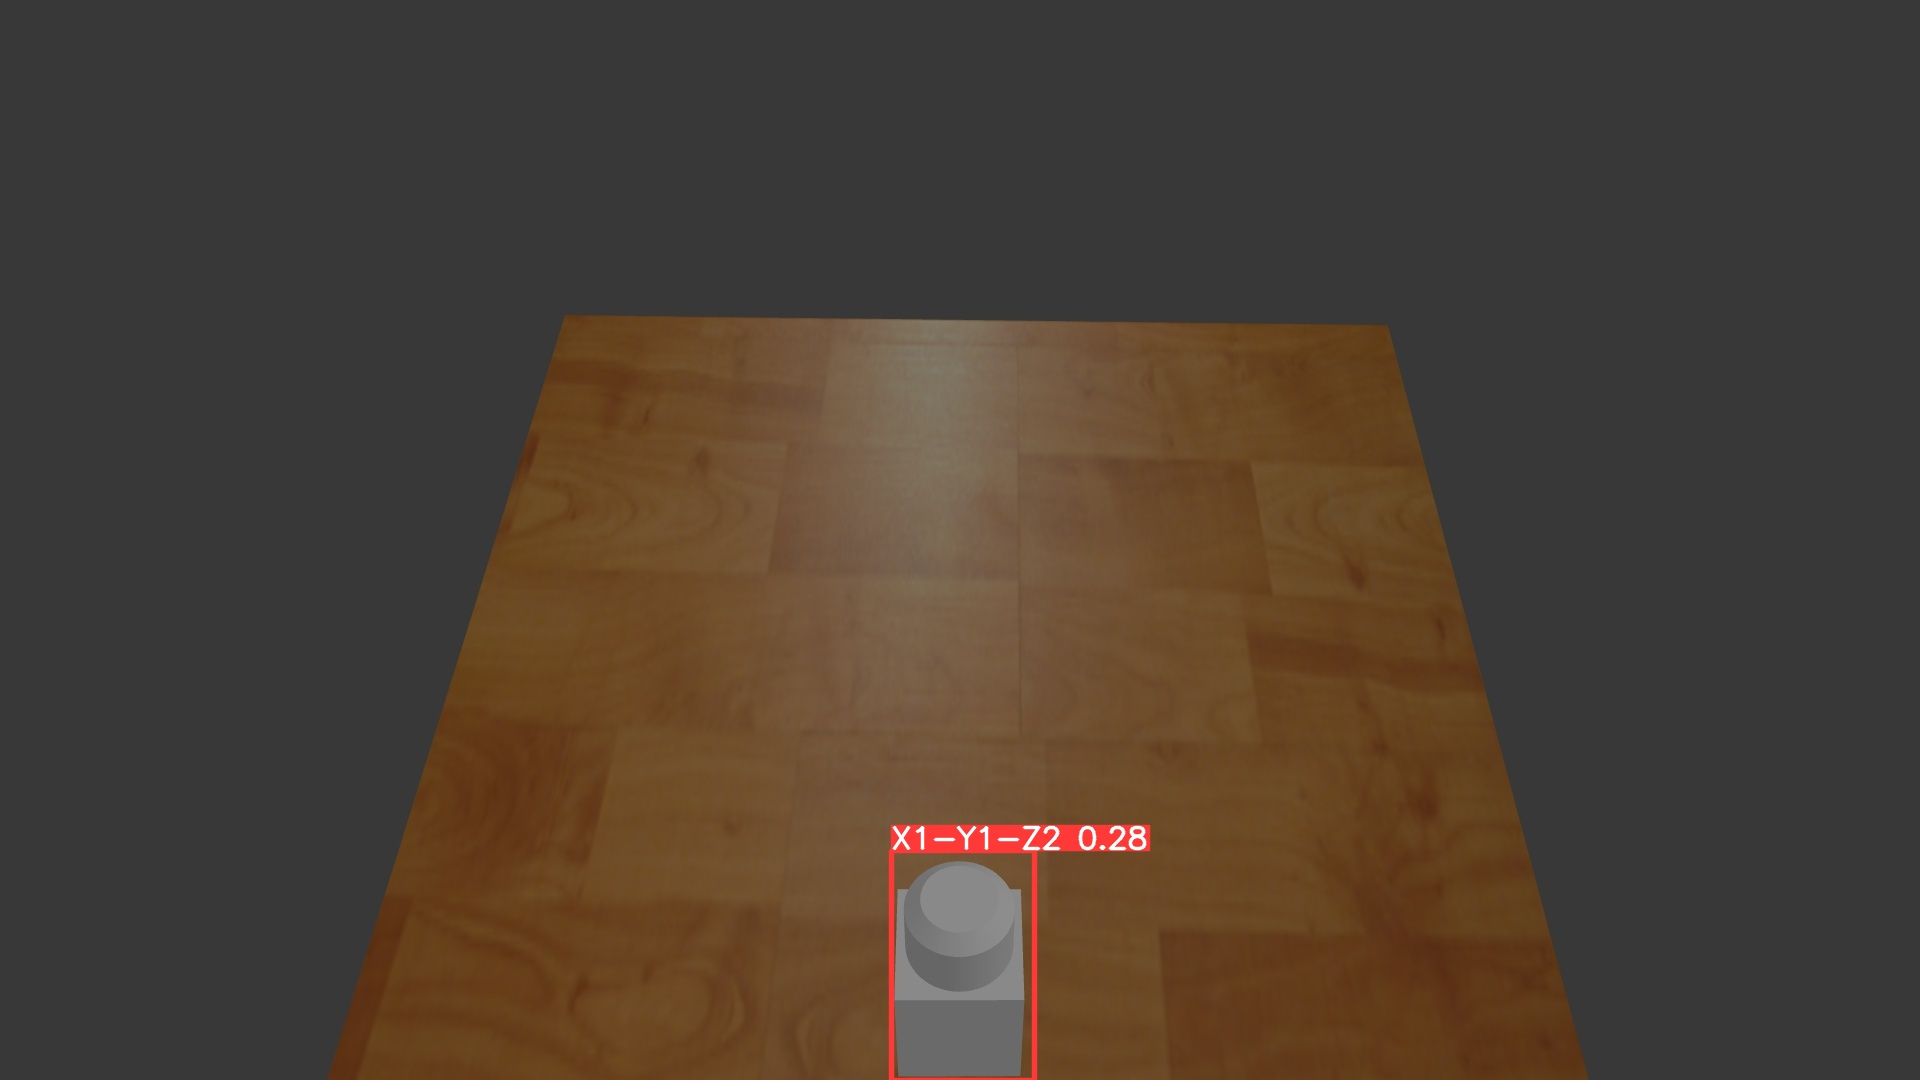
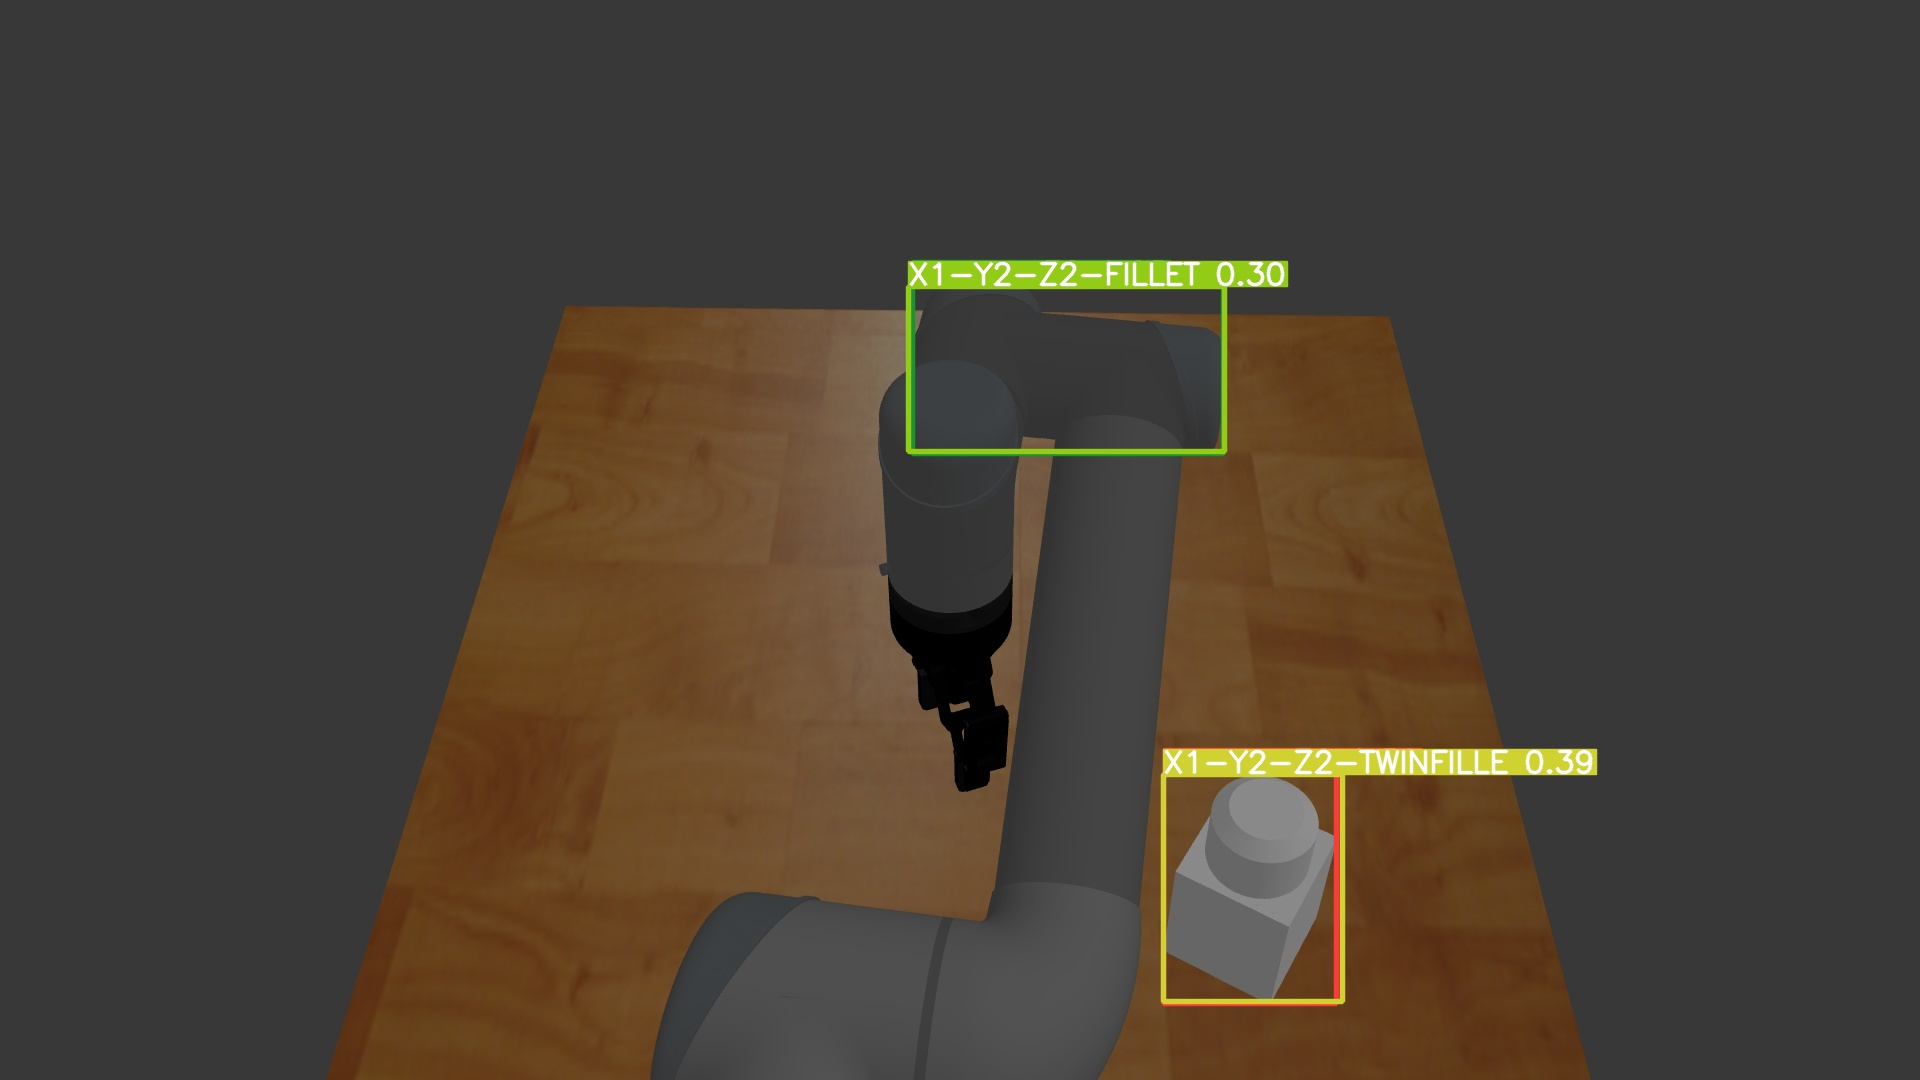
bug fixes

Changed region(s): [[0.2812, 0.2139, 0.8438, 1.0]]

diff --git a/src/ur5_pkg/src/node.cpp b/src/ur5_pkg/src/node.cpp
@@ -94,21 +94,20 @@ void moveLegoToPos(ros::Rate& loop_rate,ros::NodeHandle nodeHandle){
     cout << posData.dump(2)<< endl;
     string name = posData["obj"][0]["name"];
     float x = posData["obj"][0]["x"];
-    //float y = posData["obj"][0]["y"];
-    float y = 0.6;
+    float y = posData["obj"][0]["y"];
 
 
     //prendo il primo blocco lego
     {
     cout << "Mi posizione sopra "<< name  << " -> x: "<< x << " y: "<< y << endl;
-    pointToPointMotionPlan(make_pair(Vector3ld{x, y, 0.4}, degToRad(Vector3ld{180.0, 0.0, 45.0})), loop_rate, 0.0, 1.0, 0.01);
+    pointToPointMotionPlan(make_pair(Vector3ld{x, y, 0.5}, degToRad(Vector3ld{180.0, 0.0, 45.0})), loop_rate, 0.0, 1.0, 0.01);
     mySleep(loop_rate);
 
     cout << "Apro gripper 0.0" << endl;
     gripper_set(0.0, loop_rate);
 
     cout << "Prendo "<< name  << " -> x: "<< x << " y: "<< y << endl;
-    pointToPointMotionPlan(make_pair(Vector3ld{x, y, 0.3}, degToRad(Vector3ld{180.0, 0.0, 45.0})), loop_rate, 0.0, 1.0, 0.01);
+    pointToPointMotionPlan(make_pair(Vector3ld{x, y, 0.4}, degToRad(Vector3ld{180.0, 0.0, 45.0})), loop_rate, 0.0, 1.0, 0.01);
     mySleep(loop_rate);
 
     cout << "Chudo gripper {0.20}" << endl;
@@ -118,7 +117,7 @@ void moveLegoToPos(ros::Rate& loop_rate,ros::NodeHandle nodeHandle){
     createDynamicLink(nodeHandle, "robot" , name, "wrist_3_link", "link");
 
     cout << "Alzo  "<< name  << " -> x: "<< x << " y: "<< y << endl;
-    pointToPointMotionPlan(make_pair(Vector3ld{x, y, 0.4}, degToRad(Vector3ld{180.0, 0.0, 45.0})), loop_rate, 0.0, 1.0, 0.01);
+    pointToPointMotionPlan(make_pair(Vector3ld{x, y, 0.5}, degToRad(Vector3ld{180.0, 0.0, 45.0})), loop_rate, 0.0, 1.0, 0.01);
     mySleep(loop_rate);
 
     mySleep(loop_rate);

diff --git a/src/computerVision/yolov5/detectPos.py b/src/computerVision/yolov5/detectPos.py
@@ -244,7 +244,7 @@ class locateObj:
         assert isinstance(self.ptcloud , PointCloud2)
         index = (py*self.ptcloud.row_step) + (px*self.ptcloud.point_step)
         (X, Y, Z) = struct.unpack_from('fff', self.ptcloud.data, offset=index)
-        return (round(X,3), round((Z*math.sin(0.78)-Y)+0.10,3), 1)
+        return (round(X,2), round((Z*math.sin(0.765)-Y)+0.10,2), 1)
 
 
 def objDetect():
